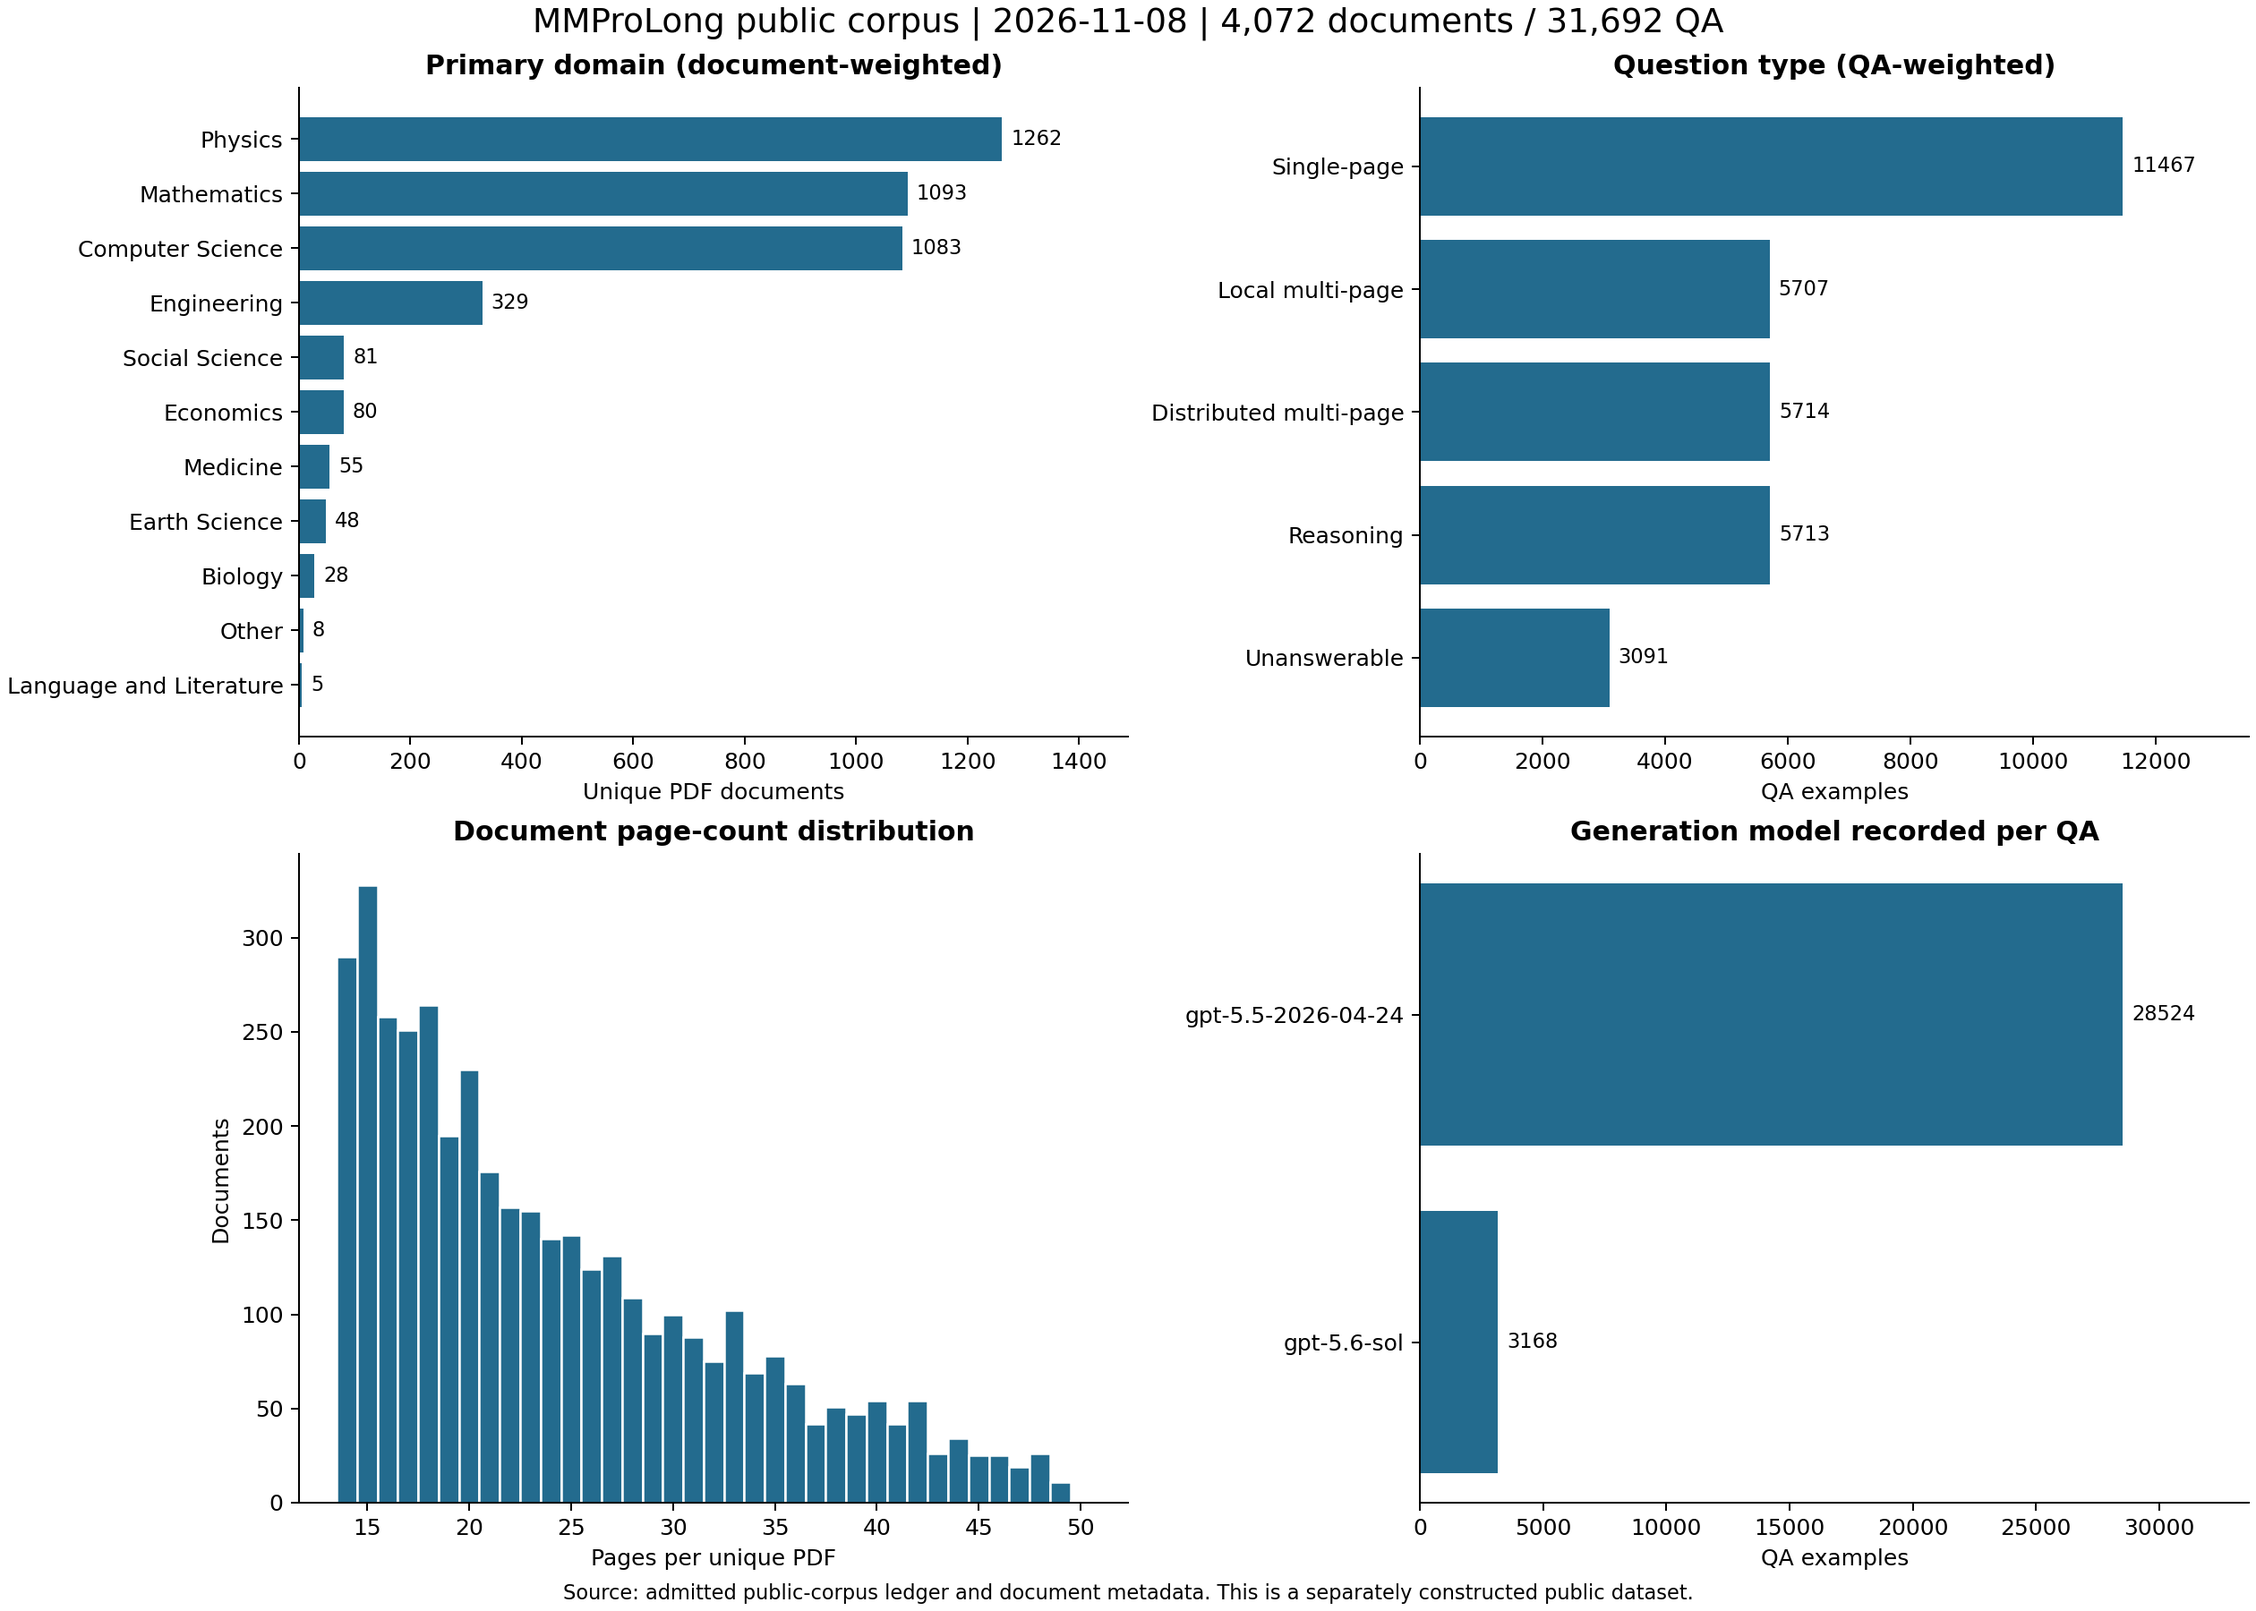
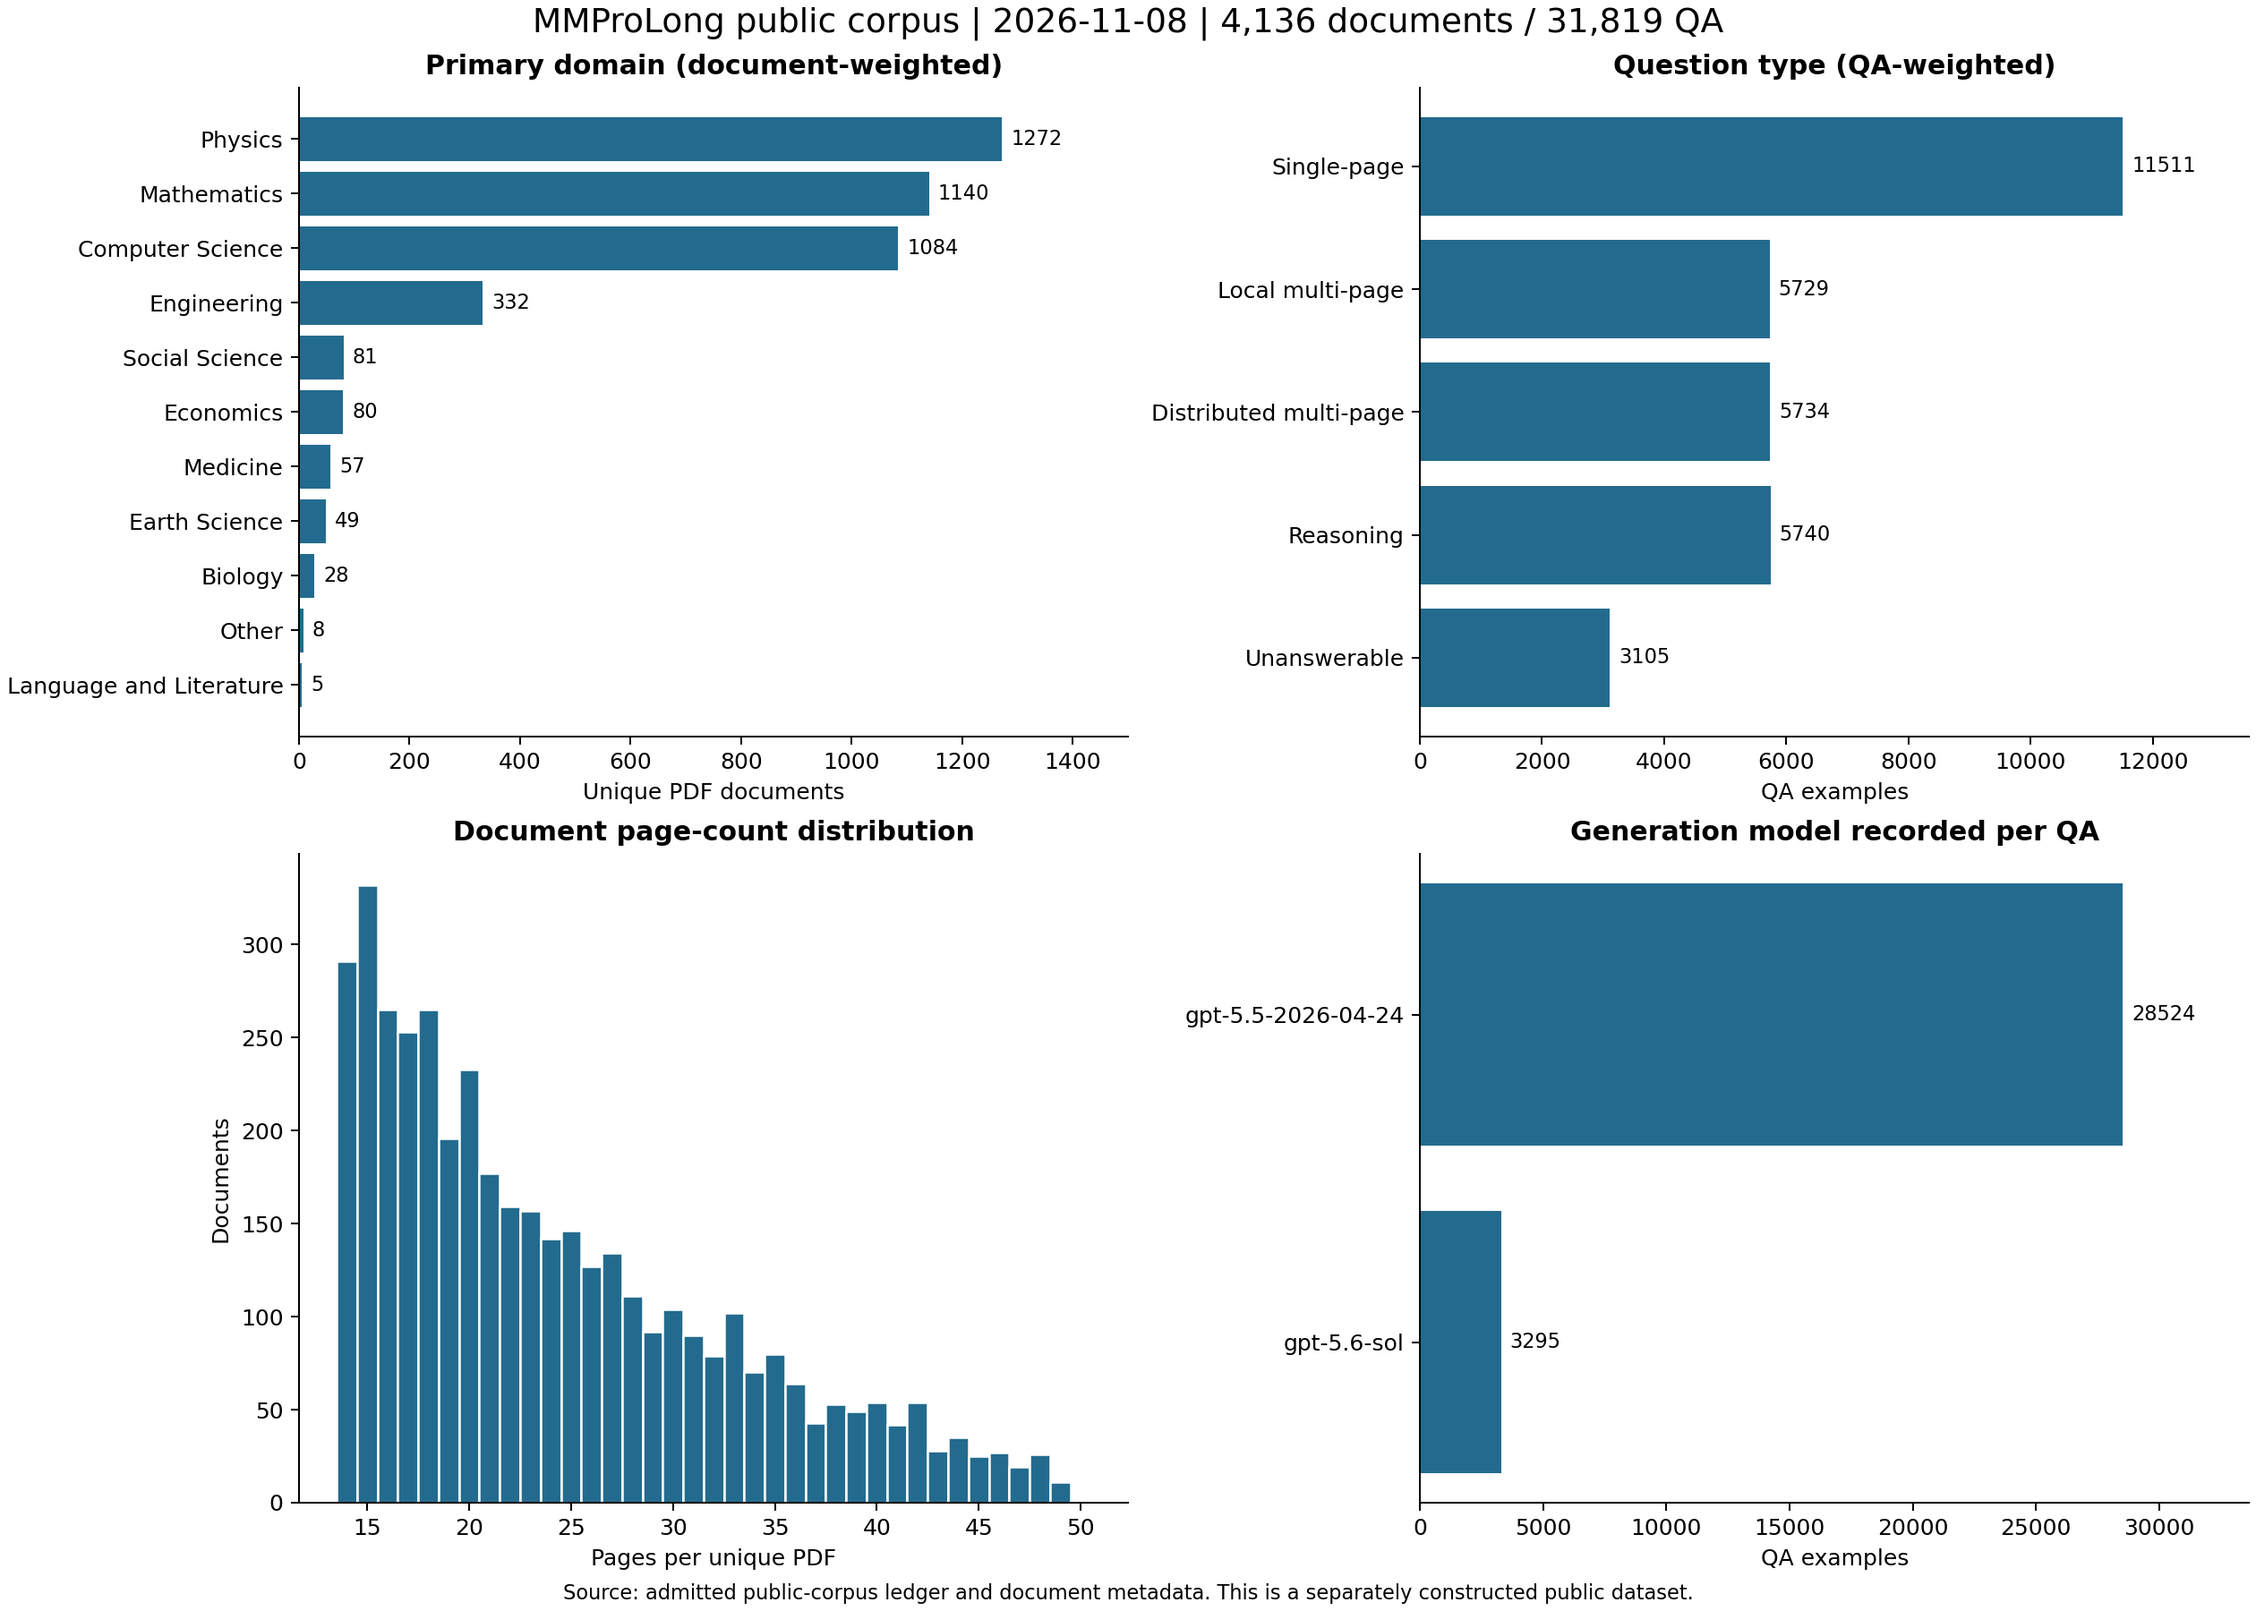
Update public corpus statistics to 1.950B measured tokens

diff --git a/docs/public_dataset.md b/docs/public_dataset.md
@@ -13,26 +13,26 @@ This page describes the admitted public snapshot identified below. It is a separ
 The manuscript defines binary prefixes (K=1024, B=2^30). Public tables use decimal K=1,000 and B=1,000,000,000; the >=100Ki statistic uses 102,400 to match the paper threshold. Exact raw counts and per-document labels are published with the dataset.
 
 <!-- PUBLIC_CORPUS_STATS_START -->
-**Public snapshot (2026-11-08): 31,692 QA examples, 4,072 source PDFs, 98,412 unique page images, and 1,940,838,080 estimated training tokens (approximately 1.941B).**
+**Public snapshot (2026-11-08): 31,819 QA examples, 4,136 source PDFs, 100,124 unique page images, and 1,949,558,361 estimated training tokens (approximately 1.950B).**
 
-[This published snapshot](https://huggingface.co/datasets/ZhaoweiWang/MMProLong-Data-Public/tree/d40dfe8c5335b0312eb411cfc56514c0079a95c9); [latest data](https://huggingface.co/datasets/ZhaoweiWang/MMProLong-Data-Public).
+[This published snapshot](https://huggingface.co/datasets/ZhaoweiWang/MMProLong-Data-Public/tree/7c846b50388d665e79905ee4d7e3334060d49c6a); [latest data](https://huggingface.co/datasets/ZhaoweiWang/MMProLong-Data-Public).
 
 ### Corpus scale
 
 | Statistic | Public snapshot value |
 | --- | --- |
-| Admitted unique PDFs | 4,072 |
+| Admitted unique PDFs | 4,136 |
 | Document family | arXiv research papers |
-| Unique rendered page images | 98,412 |
-| Document pages: mean / median | 24.17 / 22 |
+| Unique rendered page images | 100,124 |
+| Document pages: mean / median | 24.21 / 22 |
 | Document pages: range / 5th-95th percentile | 14-50 / 14-42 |
-| Admitted QA examples | 31,692 |
-| Estimated training tokens | 1,940,838,080 (1.941B) |
-| Per-QA tokens: mean / median | 61.241K / 54.789K |
+| Admitted QA examples | 31,819 |
+| Estimated training tokens | 1,949,558,361 (1.950B) |
+| Per-QA tokens: mean / median | 61.270K / 54.794K |
 | Observed token range | 33,547-125,503 |
-| At least 100,000 tokens | 2,550 (8.05%) |
-| At least 100Ki = 102,400 tokens (paper threshold) | 2,138 (6.75%) |
-| Page references across all QA contexts | 763,851 |
+| At least 100,000 tokens | 2,562 (8.05%) |
+| At least 100Ki = 102,400 tokens (paper threshold) | 2,148 (6.75%) |
+| Page references across all QA contexts | 767,259 |
 
 Tokens are the stored Qwen2.5-VL serialized-sample estimate, including full page-image context and QA/prompt text. A PDF used by several questions contributes its context repeatedly to the training-token total. This is not a count of unique-text tokens or billed API tokens. Page images are physically stored once per document.
 
@@ -42,12 +42,12 @@ Tokens are the stored Qwen2.5-VL serialized-sample estimate, including full page
 
 | Task | QA | Avg. pages | Avg. K tokens | B tokens | Pages | K-token range | >=100Ki |
 | --- | --- | --- | --- | --- | --- | --- | --- |
-| `single` | 11,467 | 23.99 | 60.94 | 0.699 | 14-50 | 33.80-125.13 | 6.69% |
-| `multi_local` | 5,707 | 24.07 | 61.23 | 0.349 | 14-50 | 33.85-125.50 | 6.66% |
-| `multi_distributed` | 5,714 | 24.06 | 61.16 | 0.349 | 14-50 | 33.84-125.29 | 6.74% |
-| `reasoning` | 5,713 | 24.06 | 61.09 | 0.349 | 14-50 | 33.55-125.11 | 6.46% |
-| `unanswerable` | 3,091 | 24.73 | 62.80 | 0.194 | 14-50 | 33.79-125.09 | 7.67% |
-| **Total** | 31,692 | 24.10 | 61.24 | 1.941 | 14-50 | 33.55-125.50 | 6.75% |
+| `single` | 11,511 | 24.01 | 60.97 | 0.702 | 14-50 | 33.80-125.13 | 6.70% |
+| `multi_local` | 5,729 | 24.08 | 61.26 | 0.351 | 14-50 | 33.85-125.50 | 6.67% |
+| `multi_distributed` | 5,734 | 24.07 | 61.20 | 0.351 | 14-50 | 33.84-125.29 | 6.77% |
+| `reasoning` | 5,740 | 24.07 | 61.13 | 0.351 | 14-50 | 33.55-125.11 | 6.45% |
+| `unanswerable` | 3,105 | 24.73 | 62.79 | 0.195 | 14-50 | 33.79-125.09 | 7.63% |
+| **Total** | 31,819 | 24.11 | 61.27 | 1.950 | 14-50 | 33.55-125.50 | 6.75% |
 
 `K = 1,000`, `B = 1,000,000,000`; `100Ki = 102,400` tokens. Average pages in this table are **QA-weighted**, whereas the corpus-scale document average counts each PDF once. The two multi-page rows may be combined for comparison with the paper's broader extraction category. Unanswerable QA is an additional public-data task. Exact values, quantiles, and the combined task grouping are in [`metadata/statistics.json`](https://huggingface.co/datasets/ZhaoweiWang/MMProLong-Data-Public/blob/main/metadata/statistics.json).
 
@@ -57,16 +57,16 @@ Tokens are the stored Qwen2.5-VL serialized-sample estimate, including full page
 
 | Primary domain | Documents | Document share | QA | QA share |
 | --- | --- | --- | --- | --- |
-| Physics | 1,262 | 30.99% | 9,167 | 28.93% |
-| Mathematics | 1,093 | 26.84% | 8,545 | 26.96% |
-| Computer Science | 1,083 | 26.60% | 8,849 | 27.92% |
-| Engineering | 329 | 8.08% | 2,599 | 8.20% |
-| Social Science | 81 | 1.99% | 645 | 2.04% |
-| Economics | 80 | 1.96% | 643 | 2.03% |
-| Medicine | 55 | 1.35% | 492 | 1.55% |
-| Earth Science | 48 | 1.18% | 421 | 1.33% |
-| Biology | 28 | 0.69% | 245 | 0.77% |
-| Other | 8 | 0.20% | 56 | 0.18% |
+| Physics | 1,272 | 30.75% | 9,186 | 28.87% |
+| Mathematics | 1,140 | 27.56% | 8,639 | 27.15% |
+| Computer Science | 1,084 | 26.21% | 8,851 | 27.82% |
+| Engineering | 332 | 8.03% | 2,605 | 8.19% |
+| Social Science | 81 | 1.96% | 645 | 2.03% |
+| Economics | 80 | 1.93% | 643 | 2.02% |
+| Medicine | 57 | 1.38% | 496 | 1.56% |
+| Earth Science | 49 | 1.18% | 423 | 1.33% |
+| Biology | 28 | 0.68% | 245 | 0.77% |
+| Other | 8 | 0.19% | 56 | 0.18% |
 | Language and Literature | 5 | 0.12% | 30 | 0.09% |
 
 Document and QA shares differ because historical phases generated different numbers of questions per PDF. Domain labels describe the source PDF, not a separate topic inferred for each question.
@@ -75,21 +75,21 @@ Document and QA shares differ because historical phases generated different numb
 
 | Answer format | QA | Share |
 | --- | --- | --- |
-| List | 10,614 | 33.49% |
-| String | 11,737 | 37.03% |
-| Integer | 4,766 | 15.04% |
-| Float | 1,484 | 4.68% |
-| Unanswerable | 3,091 | 9.75% |
+| Integer | 4,793 | 15.06% |
+| Float | 1,485 | 4.67% |
+| List | 10,645 | 33.45% |
+| String | 11,791 | 37.06% |
+| Unanswerable | 3,105 | 9.76% |
 
-There are **28,601 answerable** and **3,091 unanswerable** QA examples. The observed necessary-evidence page counts are: 0 pages: 3,091, 1 pages: 14,450, 2 pages: 9,399, 3 pages: 3,807, 4 pages: 945.
+There are **28,714 answerable** and **3,105 unanswerable** QA examples. The observed necessary-evidence page counts are: 0 pages: 3,105, 1 pages: 14,508, 2 pages: 9,437, 3 pages: 3,821, 4 pages: 948.
 
 <details>
 <summary>Observed QA count per source document</summary>
 
 | QA per document | Documents |
 | --- | --- |
-| 1 | 162 |
-| 2 | 1,503 |
+| 1 | 163 |
+| 2 | 1,566 |
 | 6 | 1 |
 | 8 | 1 |
 | 9 | 7 |
@@ -106,18 +106,19 @@ The 20-QA documents belong to the initial pilot; the two-QA limit applies to the
 
 | Recorded method | Documents |
 | --- | --- |
-| majority of full-context generator domain labels | 3,962 |
-| arXiv primary category mapping | 101 |
+| majority of full-context generator domain labels | 4,024 |
+| arXiv primary category mapping | 103 |
 | manual primary-topic classification for validated pilot batches | 9 |
 
 ## Document language
 
 | Estimated document language | Documents | Document share | Associated QA |
 | --- | --- | --- | --- |
-| English (`en`) | 4,068 | 99.902% | 31,654 |
-| Spanish (`es`) | 2 | 0.049% | 14 |
-| Russian (`ru`) | 1 | 0.025% | 12 |
-| Chinese (`zh`) | 1 | 0.025% | 12 |
+| English (`en`) | 4,131 | 99.879% | 31,779 |
+| Spanish (`es`) | 2 | 0.048% | 14 |
+| French (`fr`) | 1 | 0.024% | 2 |
+| Russian (`ru`) | 1 | 0.024% | 12 |
+| Chinese (`zh`) | 1 | 0.024% | 12 |
 
 Language labels are automatic estimates from sampled embedded PDF text; non-English/uncertain predictions receive a prose-filter recheck. They are not human-verified. Method, sampled pages, scores and recheck provenance are retained with each document.
 
@@ -125,14 +126,14 @@ Language labels are automatic estimates from sampled embedded PDF text; non-Engl
 
 | Recorded generation model | Documents | QA | QA share | B training tokens |
 | --- | --- | --- | --- | --- |
-| `gpt-5.5-2026-04-24` | 2,407 | 28,524 | 90.00% | 1.745 |
-| `gpt-5.6-sol` | 1,665 | 3,168 | 10.00% | 0.196 |
+| `gpt-5.5-2026-04-24` | 2,407 | 28,524 | 89.64% | 1.745 |
+| `gpt-5.6-sol` | 1,729 | 3,295 | 10.36% | 0.205 |
 
 | Phase | Documents | QA | Maximum QA per document |
 | --- | --- | --- | --- |
 | Initial pilot (GPT-5.5) | 4 | 80 | 20 |
 | GPT-5.5 production | 2,403 | 28,444 | 12 |
-| Current GPT-5.6 production | 1,665 | 3,168 | 2 |
+| Current GPT-5.6 production | 1,729 | 3,295 | 2 |
 
 The current snapshot is a **mixed-model historical release**, not an all-GPT-5.6 corpus. Use the `model` field when a model-specific subset is required.
 

diff --git a/README.md b/README.md
@@ -40,7 +40,7 @@ Please check out the [paper](https://arxiv.org/abs/2605.13831) for the study and
 ## 📢 Latest Updates
 
 <!-- PUBLIC_CORPUS_SUMMARY_START -->
-**Public snapshot (2026-11-08): 31,692 QA examples, 4,072 source PDFs, 98,412 unique page images, and 1,940,838,080 estimated training tokens (approximately 1.941B).**
+**Public snapshot (2026-11-08): 31,819 QA examples, 4,136 source PDFs, 100,124 unique page images, and 1,949,558,361 estimated training tokens (approximately 1.950B).**
 
 [Dataset](https://huggingface.co/datasets/ZhaoweiWang/MMProLong-Data-Public) | [Statistics](docs/public_dataset.md)
 <!-- PUBLIC_CORPUS_SUMMARY_END -->
